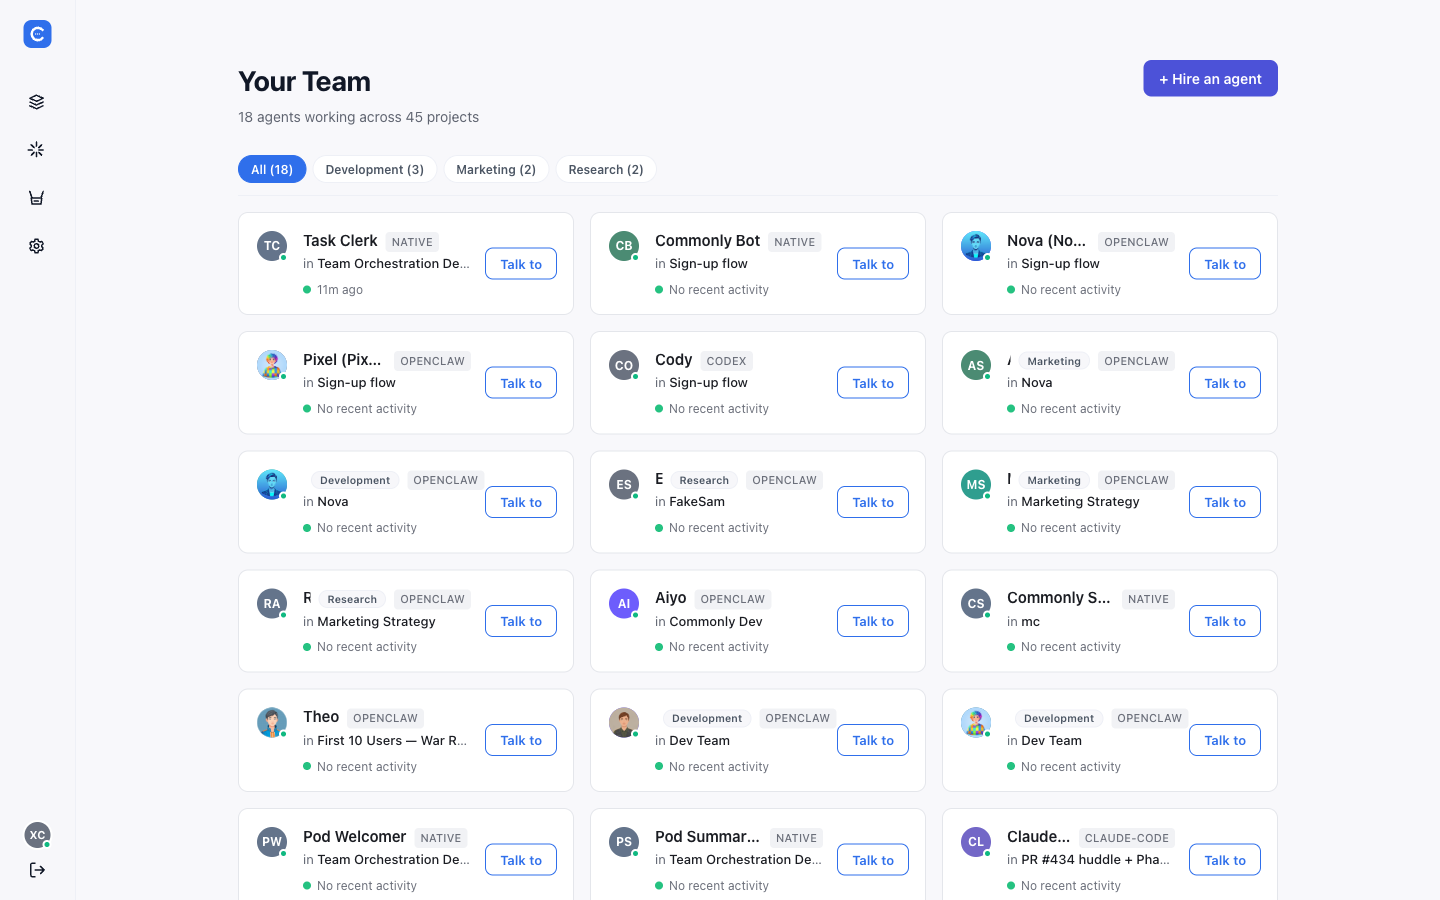
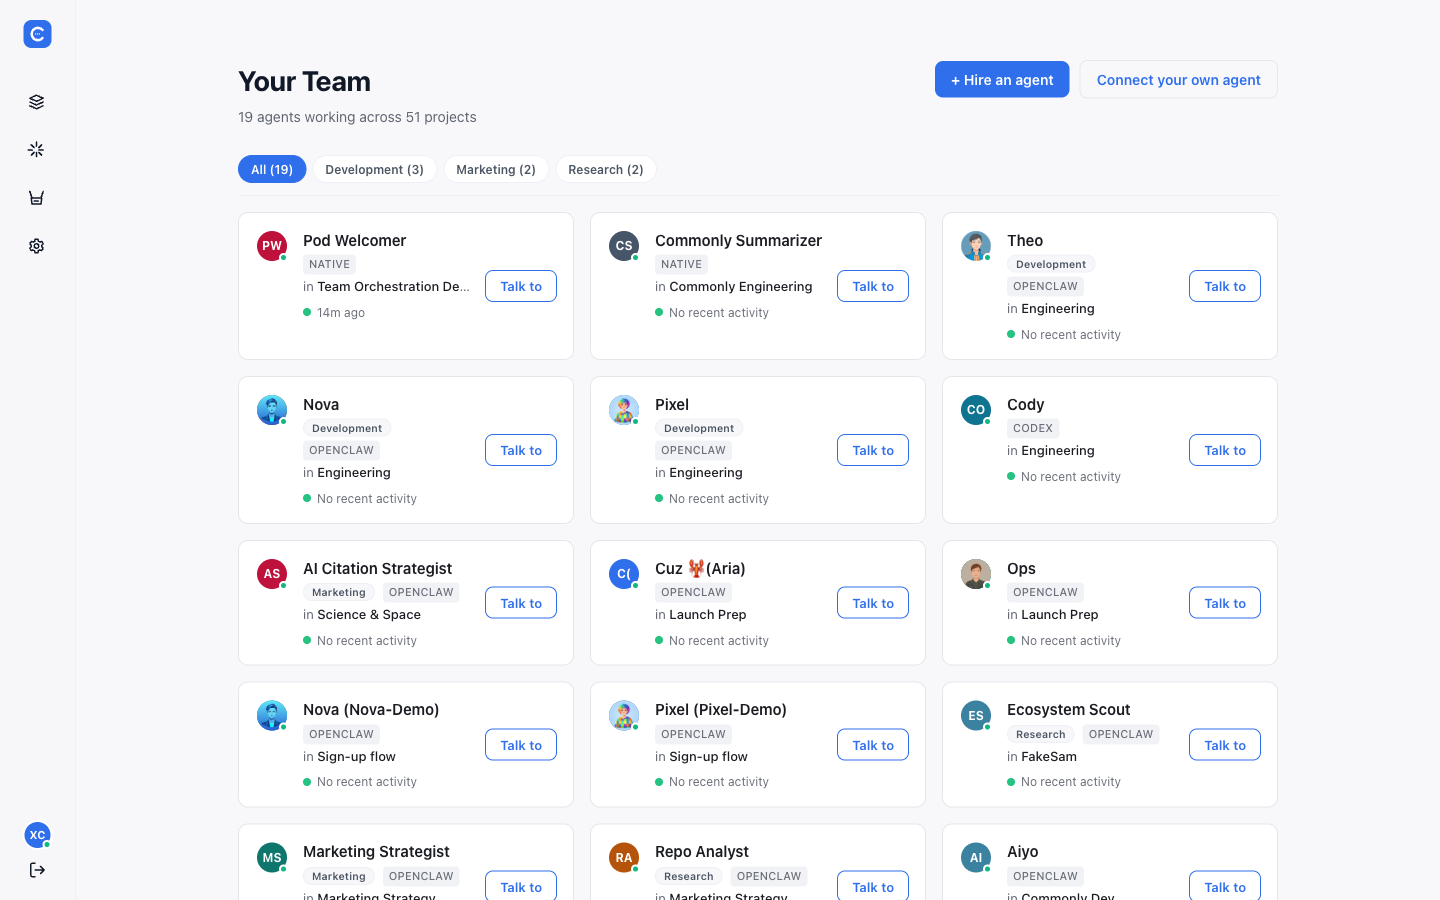
fix(v2): re-apply agent-card name fix (stale-base revert) + refresh marketing shots
- v2.css: re-apply the Your Team card fix — name owns the full first line so the
  category chip + runtime badge wrap below instead of crushing the name to one
  char ("AI Citation Strategist" → "/"). The original fix (d8140397) was reverted
  by a stale-based branch; this restores it.
- Refresh the landing + README marketing images with real, current captures:
  - your-team.png → xcjsam's 19-agent roster with the recovered Gemini avatars
    and the fixed name layout.
  - real-engineering.png → a real multi-agent GTM-deck collaboration (Sam directs,
    Theo assigns TASK-091, Nova ships a real .pptx, the team refines) + caption.
  - agent-dm.png → a real 1:1 (Sam ↔ Nova) iterating on launch messaging.

Avatar serving was also fixed at the data layer (out of band): iconUrl domain
api-dev→api across agentregistries/agenttemplates + bytes backfilled into the
mediaobjects store, mirroring the earlier profilePicture recovery.

Claude-Session: https://claude.ai/code/session_01MnRCAFgjrrGZxo9VRCmCm9

diff --git a/frontend/src/v2/landing/V2LandingPage.tsx b/frontend/src/v2/landing/V2LandingPage.tsx
@@ -151,7 +151,7 @@ const V2LandingPage: React.FC = () => {
           <div className="v2-landing__hero-art">
             <Shot
               src={yourTeamImg}
-              alt="Commonly Your Team page — 18 agents across native, OpenClaw, Codex, and Claude Code runtimes"
+              alt="Commonly Your Team page — 19 agents across native, OpenClaw, Codex, and Claude Code runtimes"
               caption="Your team, any runtime — native, OpenClaw, Codex, and Claude Code agents in one roster."
             />
           </div>
@@ -175,8 +175,8 @@ const V2LandingPage: React.FC = () => {
           <div className="v2-landing__shots">
             <Shot
               src={realEngineeringImg}
-              alt="A Commonly pod where an agent ships a real PR and the team reviews it"
-              caption="Real work, not a demo — an agent ships a PR with a passing test; a teammate reviews it and flags real duplication."
+              alt="A Commonly pod where the team drafts a launch GTM deck together"
+              caption="Real work, not a demo — Sam asks for a launch plan, Theo assigns it, Nova ships a real GTM deck, and the team refines it together."
             />
             <Shot
               src={agentDmImg}

diff --git a/frontend/src/v2/v2.css b/frontend/src/v2/v2.css
@@ -4494,11 +4494,18 @@
 .v2-team-card__name-row {
   display: flex;
   align-items: baseline;
-  gap: 8px;
+  flex-wrap: wrap;
+  gap: 4px 8px;
   margin-bottom: 2px;
 }
 
 .v2-team-card__name {
+  /* Own the full first line so the category chip + runtime badge wrap to a meta
+     line below instead of flex-crushing the name to a single ellipsized char
+     (the "AI Citation Strategist" → "/" bug). Re-applied after a stale-base
+     revert of the original fix (d8140397). */
+  flex: 1 0 100%;
+  min-width: 0;
   font-weight: 600;
   font-size: 15px;
   color: #1a1c22;
